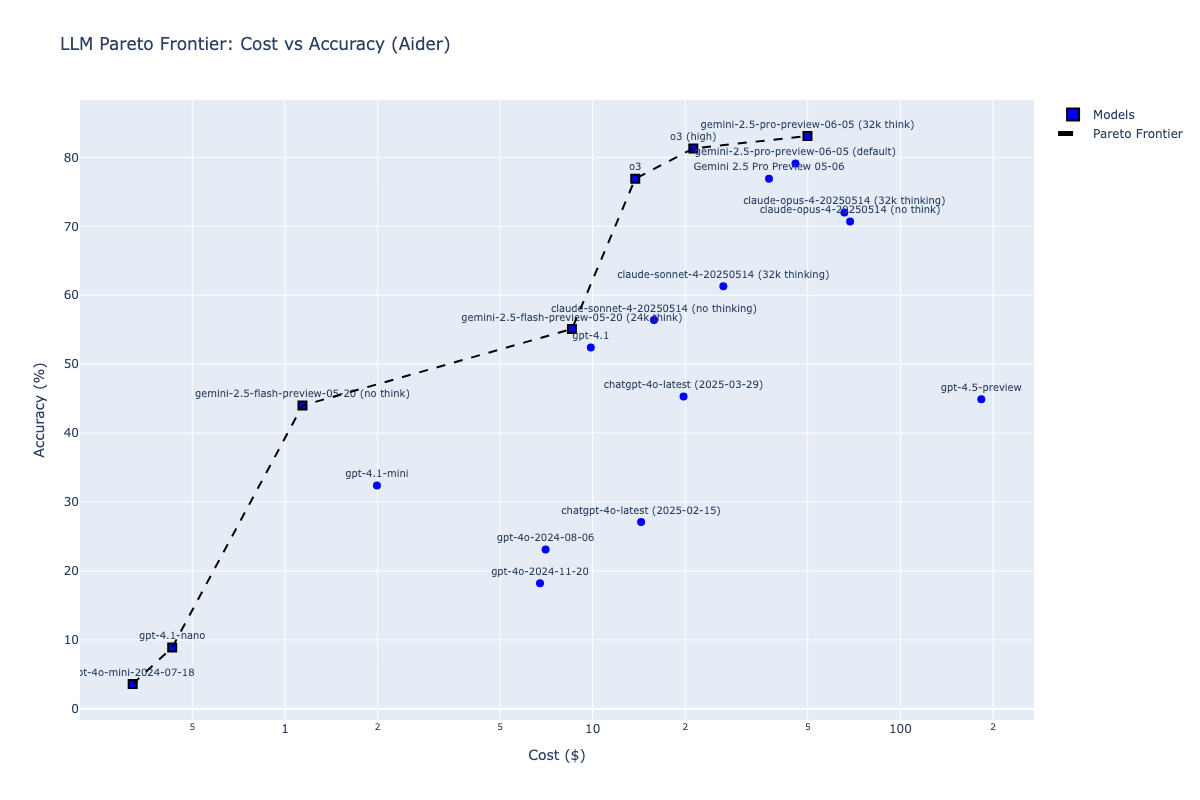
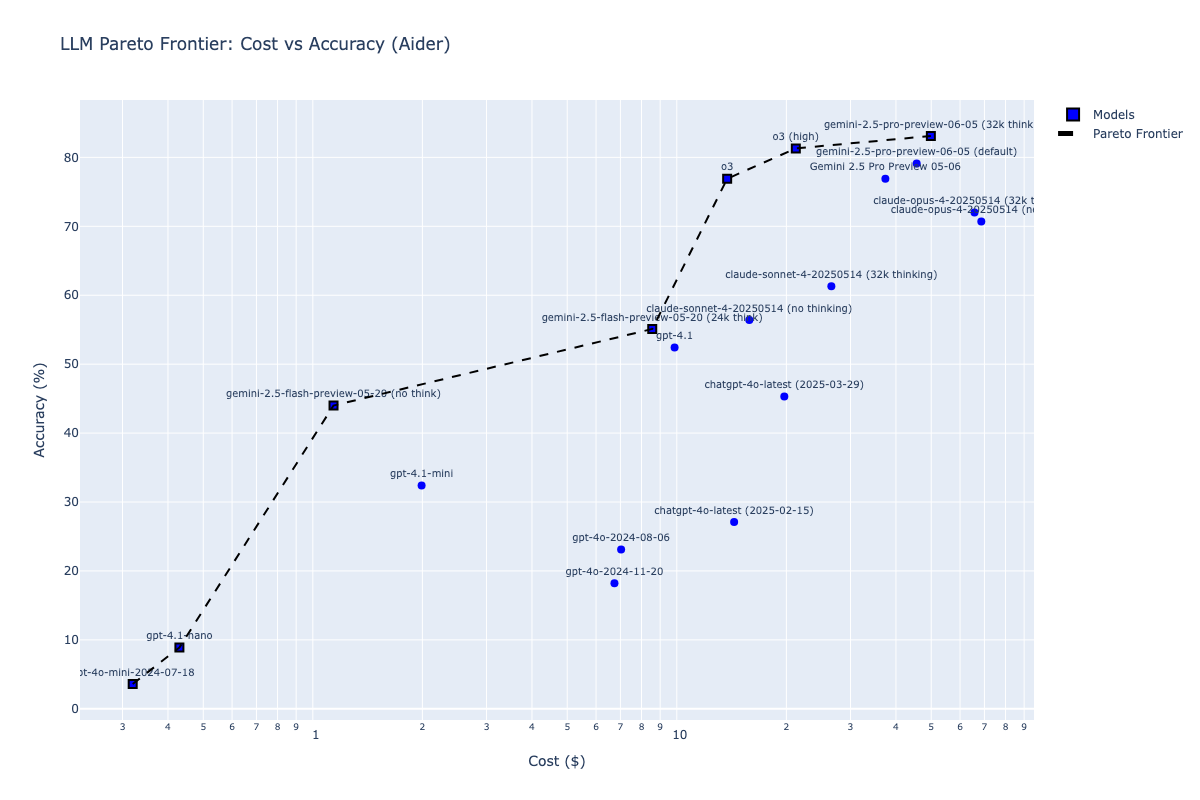
feat: Remove gpt-4.5-preview from Aider benchmark
- Remove gpt-4.5-preview model from pareto-aider.py dataset
- Regenerate plot to reflect updated model set

🤖 Generated with [Claude Code](https://claude.ai/code)

diff --git a/pareto-aider.py b/pareto-aider.py
@@ -15,7 +15,6 @@ data = {
         "claude-sonnet-4-20250514 (no thinking)",
         "gemini-2.5-flash-preview-05-20 (24k think)",
         "gpt-4.1",
-        "gpt-4.5-preview",
         "chatgpt-4o-latest (2025-03-29)",
         "gemini-2.5-flash-preview-05-20 (no think)",
         "gpt-4.1-mini",
@@ -37,7 +36,6 @@ data = {
         56.4,
         55.1,
         52.4,
-        44.9,
         45.3,
         44.0,
         32.4,
@@ -59,7 +57,6 @@ data = {
         15.82,
         8.56,
         9.86,
-        183.18,
         19.74,
         1.14,
         1.99,
